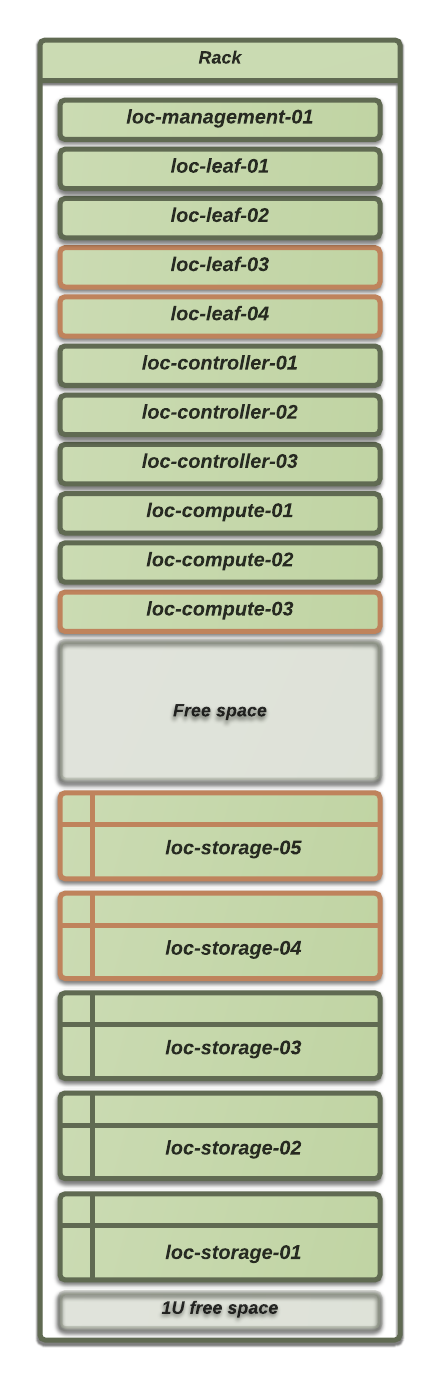
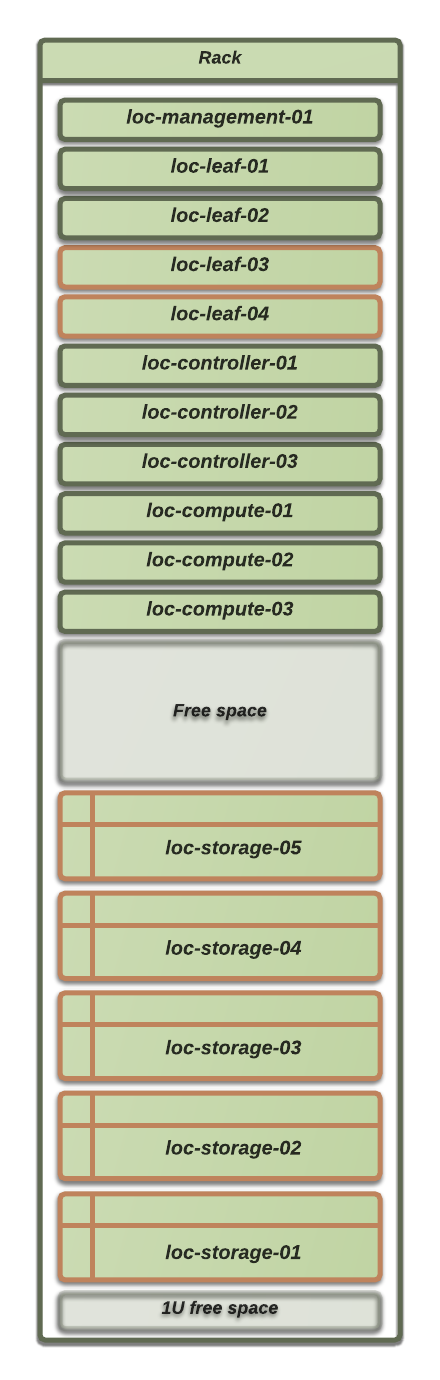
Updated rack placement text and images

Changed region(s): [[0.1182, 0.7167, 0.8864, 0.9348], [0.1182, 0.4051, 0.8864, 0.4674]]

diff --git a/docs/installation/rack_placement.rst b/docs/installation/rack_placement.rst
@@ -1,22 +1,28 @@
 Placement of equipment in racks
 ===============================
 
-We got two possible scenarios, one with a single rack available at the
-location, the other one with two. The physical boxes outlined in red are
-connected to routers loc-leaf-03 and 04. In a two rack setup there will be a
-number of cables crossing the racks because of our test requirements.
+We are installing the equipment in two separate racks to provide for easier
+future expansion.
 
-In a future expanded setup all cabling will be internal to each rack except the
-spine router links and stacking of management switches.
+Installation guide
+------------------
 
-Single rack placement guide
----------------------------
-
-.. image:: images/rack_single.png
-
-Two rack placement guide
-------------------------
+The six controller and compute nodes are installed in rack 1, the five storage
+nodes in the other. Each rack has a pair of layer 3 capable switches at the
+top. There is only a single management switch, a the top of rack 1, but if
+expanding the setup we'll have one management switch in each rack.
 
 .. image:: images/rack_two.png
 
+
+Single rack installation (not used)
+-----------------------------------
+
+We also documented an optional single rack installation setup. In this setup
+the physical boxes outlined in red are connected to routers loc-leaf-03 and 04.
+
+We decided not to use this setup because all the sites got enough space for two
+racks.
+
+.. image:: images/rack_single.png
 
